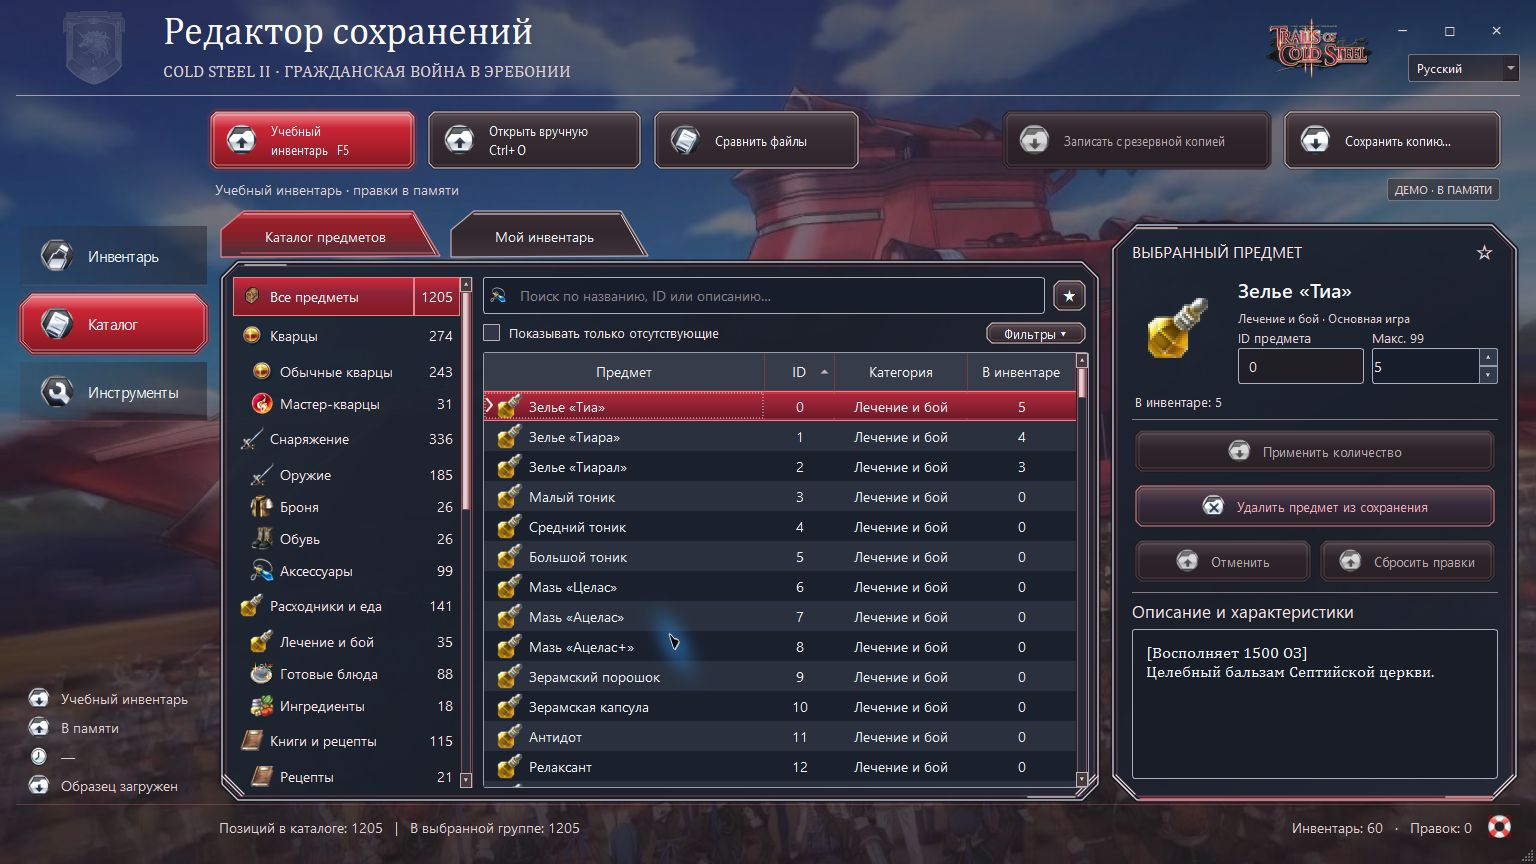
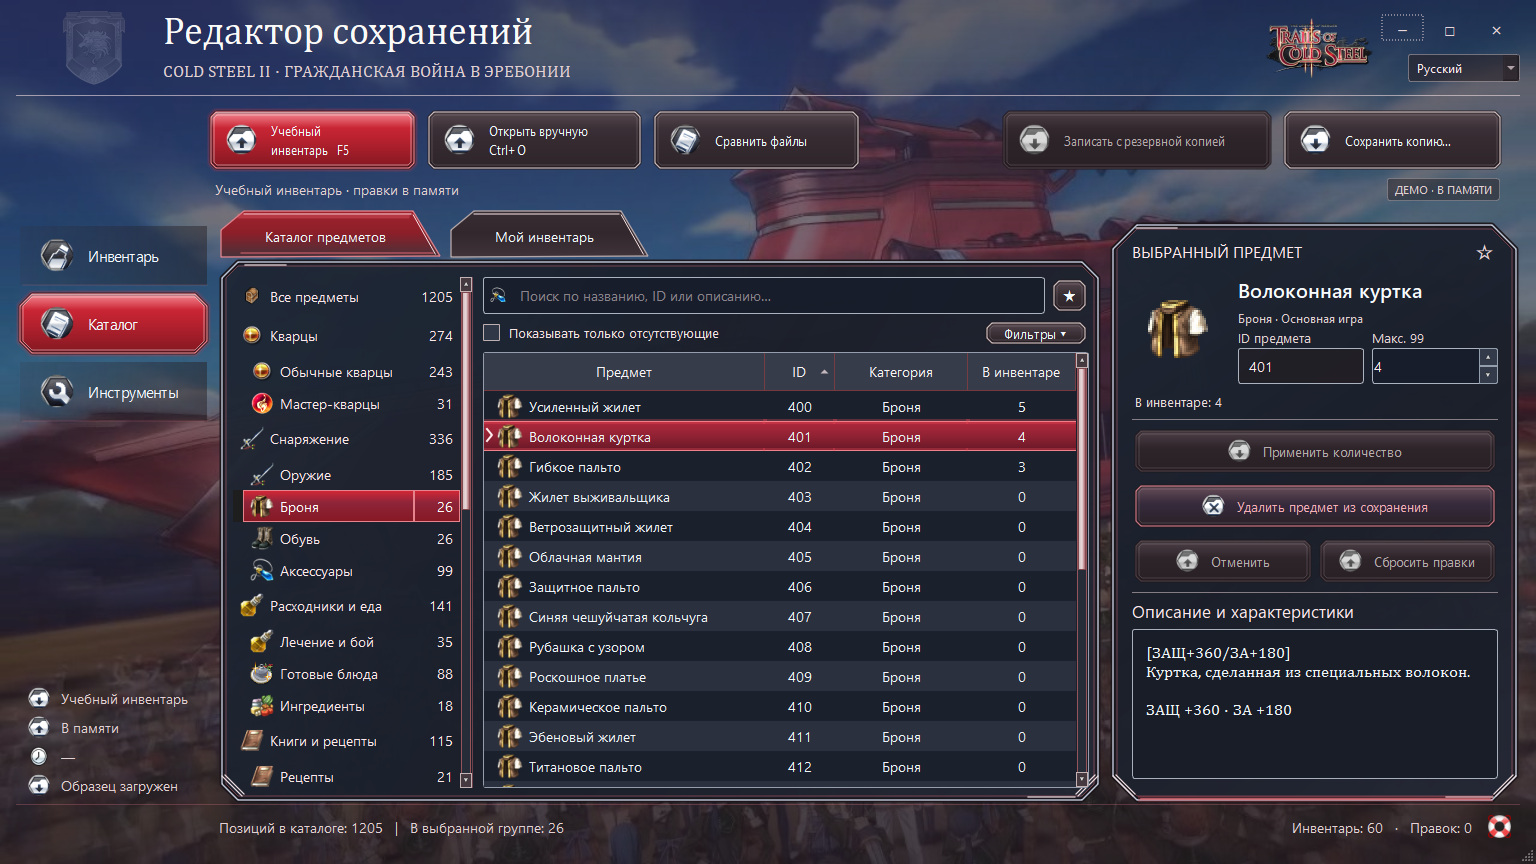
Complete Russian catalog descriptions in v1.0.3

diff --git a/test_preview.py b/test_preview.py
@@ -77,26 +77,35 @@ class PreviewTests(TestCase):
             self.assertEqual(core.item_name(1), "Item #1")
             self.assertEqual(core.details_text(1), "")
 
-    def test_standalone_item_dictionary_changes_russian_names_only(self):
+    def test_standalone_dictionary_localizes_russian_text_and_preserves_english(self):
         with TemporaryDirectory() as directory:
             root = Path(directory)
             table = root / ITEM_TABLE
             table.parent.mkdir(parents=True)
             table.touch()
             dictionary = root / "item-text.json"
-            dictionary.write_text('{"ru":{"0":["Зелье «Тиа»","Восполняет ОЗ"]}}', encoding="utf-8")
+            dictionary.write_text(
+                '{"ru":{"0":["Зелье «Тиа»","Восполняет ОЗ"]},'
+                '"ru_master_effects":{"Evasion up":"Повышает уклонение"}}',
+                encoding="utf-8",
+            )
             items = {0: CatalogItem("Tear Balm", "Restores HP", "items", 99, 0x81, 0)}
             profile = QSettings(str(root / "settings.ini"), QSettings.Format.IniFormat)
             core = EditorCore(profile=profile)
             with (patch("qt_backend.BUNDLED_ITEM_TEXT", dictionary),
                   patch("qt_backend.ITEM_TEXT", root / "missing.json"),
-                  patch("qt_backend.read_catalog", return_value=items)):
+                  patch("qt_backend.read_catalog", return_value=items),
+                  patch("qt_backend.MASTER_TABLE", ITEM_TABLE),
+                  patch("qt_backend.read_master_quartz_effects",
+                        return_value={3200: ("Evasion up", "Accuracy up")})):
                 core.apply_scan_result(scan_game_tables(root))
             for language, name, description in (("ru", "Зелье «Тиа»", "Восполняет ОЗ"),
                                                 ("en", "Tear Balm", "Restores HP"),
                                                 ("ru", "Зелье «Тиа»", "Восполняет ОЗ")):
                 core.set_language(language)
                 self.assertEqual((core.item_name(0), core.details_text(0)), (name, description))
+                first_effect = "Повышает уклонение" if language == "ru" else "Evasion up"
+                self.assertEqual(core.master_effect_titles(3200), (first_effect, "Accuracy up"))
 
     def test_invalid_profile_fields_are_discarded(self):
         with TemporaryDirectory() as directory:
@@ -279,9 +288,13 @@ class CleanWindowTests(TestCase):
                 model = window.cat_table.model()
                 window.cat_table.selectRow(0)
                 self.assertEqual(model.index(0, 0).data(), "Пробное зелье")
+                self.assertIn("Восстанавливает здоровье", window.description.toPlainText())
                 window.lang.setCurrentIndex(1)
                 self.assertEqual(model.index(0, 0).data(), "Sample Potion")
                 self.assertEqual(window.item_name.accessibleName(), "Sample Potion")
+                self.assertIn("Restores health", window.description.toPlainText())
+                window.lang.setCurrentIndex(0)
+                self.assertIn("Восстанавливает здоровье", window.description.toPlainText())
                 window.cat_search.setText("unmatched")
                 window.update_tables("catalog")
                 self.assertEqual(model.rowCount(), 0)

diff --git a/qt_backend.py b/qt_backend.py
@@ -47,6 +47,7 @@ class ScanResult:
     dlc: dict[str, tuple[str, str]] = field(default_factory=dict)
     dlc_grant_ids: frozenset[int] = frozenset()
     master_effects: dict[int, tuple[str, ...]] = field(default_factory=dict)
+    russian_master_effects: dict[str, str] = field(default_factory=dict)
 
 
 def find_game_install(preferred: str = "") -> Path | None:
@@ -122,11 +123,12 @@ def scan_game_tables(root: Path) -> ScanResult:
                 items.setdefault(item_id, item)
         files.append(source)
     try:
-        translations = read_item_text()
+        translations, russian_master_effects = read_item_text()
     except (OSError, ValueError):
-        translations = {}
+        translations, russian_master_effects = {}, {}
         errors.append("The optional item translations could not be loaded.")
-    return ScanResult(root, tuple(files), items, tuple(errors), translations, fish, dlc, grant_ids, master_effects)
+    return ScanResult(root, tuple(files), items, tuple(errors), translations, fish, dlc, grant_ids,
+                      master_effects, russian_master_effects)
 
 
 def uses_language(text: str, language: str) -> bool:
@@ -135,10 +137,10 @@ def uses_language(text: str, language: str) -> bool:
     return bool(LATIN.search(text) and not NON_LATIN.search(text))
 
 
-def read_item_text() -> dict[str, dict[ItemKey, tuple[str, str]]]:
+def read_item_text() -> tuple[dict[str, dict[ItemKey, tuple[str, str]]], dict[str, str]]:
     path = BUNDLED_ITEM_TEXT if BUNDLED_ITEM_TEXT.is_file() else ITEM_TEXT
     if not path.is_file():
-        return {}
+        return {}, {}
     raw = json.loads(path.read_text(encoding="utf-8"))
     if not isinstance(raw, dict):
         raise ValueError("Invalid item translations.")
@@ -154,7 +156,12 @@ def read_item_text() -> dict[str, dict[ItemKey, tuple[str, str]]]:
             if uses_language(value[0], language):
                 localized[int(key) if key.isdecimal() else key] = tuple(value)
         translations[language] = localized
-    return translations
+    effects = raw.get("ru_master_effects", {})
+    if not isinstance(effects, dict) or not all(
+        isinstance(text, str) and uses_language(text, "ru") for text in effects.values()
+    ):
+        raise ValueError("Invalid master quartz effect translations.")
+    return translations, effects
 
 
 def read_english_catalog(path: Path) -> dict[int, tuple[str, str]]:
@@ -379,6 +386,15 @@ class EditorCore:
     def details_text(self, item_id: ItemKey) -> str:
         _, description = self._item_text(item_id)
         return description
+
+    def master_effect_titles(self, item_id: ItemKey) -> tuple[str, ...]:
+        if self.last_scan is None:
+            return ()
+        effects = self.last_scan.master_effects.get(item_id, ())
+        if self.language == "ru":
+            localized = self.last_scan.russian_master_effects
+            return tuple(localized.get(effect, effect) for effect in effects)
+        return effects
 
     def missing_translations(self) -> list[tuple[ItemKey, str]]:
         missing = []

diff --git a/app.py b/app.py
@@ -9,7 +9,7 @@ from PySide6.QtCore import QCoreApplication, QSettings, QTimer
 from PySide6.QtGui import QColor, QPalette
 from PySide6.QtWidgets import QApplication
 
-from qt_backend import BUNDLED_ITEM_TEXT, EditorCore
+from qt_backend import BUNDLED_ITEM_TEXT, EditorCore, uses_language
 from game_art import ASSETS
 from qt_window import APP_NAME, VERSION, MainWindow
 from save_storage import SteamSaveStorage
@@ -118,6 +118,15 @@ def main() -> int:
                         ready &= model.index_for_id(0).data() == expected
                         if core.quantity(0):
                             ready &= window.inv_table.model().index_for_id(0).data() == expected
+                        if args.smoke_test_local_art:
+                            ready &= not core.missing_translations()
+                            effects = core.master_effect_titles(3200)
+                            ready &= bool(effects) and all(uses_language(text, language) for text in effects)
+                            window.cat_table.selectRow(model.index_for_id(3200).row())
+                            ready &= core.details_text(3200) in window.description.toPlainText()
+                            ready &= all(text in window.description.toPlainText() for text in effects)
+                            if item_id is not None:
+                                window.cat_table.selectRow(model.index_for_id(item_id).row())
                     if item_id is not None:
                         count = core.quantity(item_id)
                         window.delete_btn.click()

diff --git a/qt_window.py b/qt_window.py
@@ -1274,7 +1274,7 @@ class MainWindow(QMainWindow):
             labels=STAT_NAMES_RU if self.language=='ru' else STAT_NAMES
             stats=' · '.join(f'{label} {value:+d}{"%" if name in ("ACC","EVA") else ""}'
                              for name,label,value in zip(STAT_NAMES,labels,item.stats) if value)
-        effects=self.core.last_scan.master_effects.get(iid,()) if self.core.last_scan else ()
+        effects=self.core.master_effect_titles(iid)
         master_text=''
         if effects:
             master_text=self.msg('Эффекты по мере роста уровня','Effects unlocked by level')+'\n'+'\n'.join(effects)

diff --git a/version.py b/version.py
@@ -1,1 +1,1 @@
-VERSION = "1.0.2"
+VERSION = "1.0.3"

diff --git a/docs/release-notes.md b/docs/release-notes.md
@@ -1,4 +1,4 @@
-# Cold Steel II Save Editor v1.0.2
+# Cold Steel II Save Editor v1.0.3
 
 ## Overview
 
@@ -9,13 +9,13 @@ An offline Windows inventory editor for the Steam PC version of *The Legend of H
 - Detect Steam installations and recent saves, or open a `.dat` or `.bak` file manually.
 - Search, sort, and filter the installed game's catalog and inventory. Edit quantities in batches, review changes, and undo or reset before saving.
 - Export inventory to CSV, write a separate save copy, or overwrite the open slot with a verified backup. Restore that backup from the Tools panel.
-- Switch between English and Russian controls and item names. Item data comes from the installed game.
+- Switch between English and Russian controls, item names, and descriptions. Item data comes from the installed game.
 
 ## Improvements
 
-- The standalone Windows executable uses the same icon as the Steam game's EXE.
-- All 1,205 item names are available in Russian. Switching languages updates the catalog, inventory, and selected item.
-- The README shows the Russian catalog with the Courageous background and original game icons. The editor loads this artwork from the installed game and caches it on your computer.
+- Russian descriptions cover all 1,205 catalog entries, including fish and DLC packs. The remaining descriptions were translated with offline machine assistance and terminology corrections.
+- All 75 distinct master quartz effect titles are available in Russian. English continues to use the original Steam text.
+- The new README screenshot shows a translated equipment description. The Windows EXE uses the original Steam game icon.
 
 ## Installation
 
@@ -32,13 +32,13 @@ Close the game before overwriting a slot. The editor creates and verifies a back
 
 ## Downloads
 
-- `Cold-Steel-II-Save-Editor-v1.0.2-Windows.zip` contains only `Cold_Steel_II_Save_Editor.exe`.
+- `Cold-Steel-II-Save-Editor-v1.0.3-Windows.zip` contains only `Cold_Steel_II_Save_Editor.exe`.
 - `SHA256SUMS.txt` is a separate release download with the SHA-256 checksum for the ZIP.
 
-The executable uses Qt and Qt for Python under LGPLv3 and FFmpeg under LGPLv2.1 or later. [Third-party notices, sources and rebuild instructions](https://github.com/Sqzzzzzzz/Cold-Steel-II-Save-Editor/blob/v1.0.2/third_party/README.md)
+The executable uses Qt and Qt for Python under LGPLv3 and FFmpeg under LGPLv2.1 or later. [Third-party notices, sources and rebuild instructions](https://github.com/Sqzzzzzzz/Cold-Steel-II-Save-Editor/blob/v1.0.3/third_party/README.md)
 
 ## Known Limitations
 
 - Verified against Steam PC 1.4.1, build 3518949, version-8 saves. Other editions are unverified.
 - Exporting a `.dat` does not register it in the game's slot list. Protected quest and equipment entries have editing restrictions. Restoring a DLC item absent from the current slot requires opening and exporting the original backup as a separate file.
-- Game artwork loads from the full Steam installation. The logo depends on Steam's local cache, and untranslated item text comes from the installed game.
+- Game artwork loads from the full Steam installation. The logo depends on Steam's local cache.

diff --git a/docs/asset-provenance.md b/docs/asset-provenance.md
@@ -1,6 +1,6 @@
 # Local game artwork
 
-The standard CI build uses the editor's airship icon in `branding/app.ico`. The v1.0.2 download in this private repository embeds the original executable icon and the Russian item dictionary. Both builds extract the original UI and item icons from the installed game and read the Courageous background from the intro movie. The editor uses Steam's local logo cache when available. The generated artwork stays in `%LOCALAPPDATA%\ColdSteelSaveEditor`. The README screenshot shows a demo inventory with artwork loaded from the installed game.
+The standard CI build uses the editor's airship icon in `branding/app.ico`. The v1.0.3 download in this private repository embeds the original executable icon and the Russian item dictionary. Both builds extract the original UI and item icons from the installed game and read the Courageous background from the intro movie. The editor uses Steam's local logo cache when available. The generated artwork stays in `%LOCALAPPDATA%\ColdSteelSaveEditor`. The README screenshot shows a demo inventory with artwork loaded from the installed game.
 
 | Local file | Source |
 | --- | --- |
@@ -8,7 +8,7 @@ The standard CI build uses the editor's airship icon in `branding/app.ico`. The 
 | `logo.png` | Steam library cache for app `748490`. |
 | `app.ico` | Icon resources of the locally installed `ed8_2_PC_US.exe`. |
 | Item, menu, master quartz, and fish atlases, crest, arrows, and individual item art | Original game packages. The editor extracts these automatically during a catalog scan. `python game_art.py <game directory>` can also extract them into `assets` for a local build. |
-| `item-text.json` | Local Russian dictionary covering all 1,205 item names and selected descriptions, including matched entries from the Cold Steel I project. |
+| `item-text.json` | Local Russian dictionary covering all 1,205 catalog names and descriptions and 75 distinct master quartz effect titles. Descriptions use matched Cold Steel I entries, manual translations, and offline Argos Translate output with terminology corrections. The model is used during translation only. |
 
 The MIT license applies to the editor source. Public redistribution rights for the extracted game artwork have not been established. [Gameplay video guidelines](https://www.falcom.co.jp/guideline-en) · [Falcom licensing FAQ](https://www.falcom.co.jp/license/faq)
 

diff --git a/README.md b/README.md
@@ -6,7 +6,7 @@
 
 An offline inventory editor for **The Legend of Heroes: Trails of Cold Steel II** on Steam. It reads item data from the installed game and changes only the active inventory in a verified PC save.
 
-![Cold Steel II Save Editor v1.0.2 with the Courageous background, original item icons, and Russian catalog](docs/editor.jpg)
+![Cold Steel II Save Editor v1.0.3 showing the Russian catalog and a translated item description](docs/editor.jpg)
 
 ## Features
 
@@ -14,7 +14,7 @@ An offline inventory editor for **The Legend of Heroes: Trails of Cold Steel II*
 - Add, remove, or change quantities for individual items or selections. Review, undo, or reset edits before saving.
 - View equipment stats, master quartz abilities, and read-only fishing and DLC references.
 - Compare inventories, export a CSV, save a separate `.dat`, or overwrite a slot with a verified backup.
-- Switch the interface and item names between English and Russian.
+- Switch the interface, item names and descriptions, and master quartz effects between English and Russian.
 
 ## Requirements
 
@@ -61,7 +61,7 @@ To undo a write, open the edited slot and choose **Tools → Restore Backup**. R
 
 - Only the tested Steam PC format is supported. A separate export does not register a new slot in the game.
 - Service records are hidden. Quest items, recipes, Black Records, and equipped master quartz or ARCUS covers are protected. Editing DLC items requires their presence in the original slot.
-- The release includes Russian names for all 1,205 catalog entries. Descriptions and other text without a Russian translation use the game's English text.
+- The release includes Russian names and descriptions for all 1,205 catalog entries verified against Steam build 3518949. English uses the original game text.
 - The Windows EXE is unsigned. The themed build was tested in-game by loading an isolated copy and confirming **Tear Balm ×73** in the inventory and in game-generated autosaves.
 
 ## Build & Test

diff --git a/CHANGELOG.md b/CHANGELOG.md
@@ -1,5 +1,11 @@
 # Changelog
 
+## 1.0.3
+
+- Complete Russian catalog descriptions, including fishing entries and DLC packs.
+- Translate master quartz effect titles while preserving the original English text.
+- Update the README screenshot with a Russian equipment description.
+
 ## 1.0.2
 
 - Add a local single-executable build with the original Windows icon and Russian item-name dictionary.
